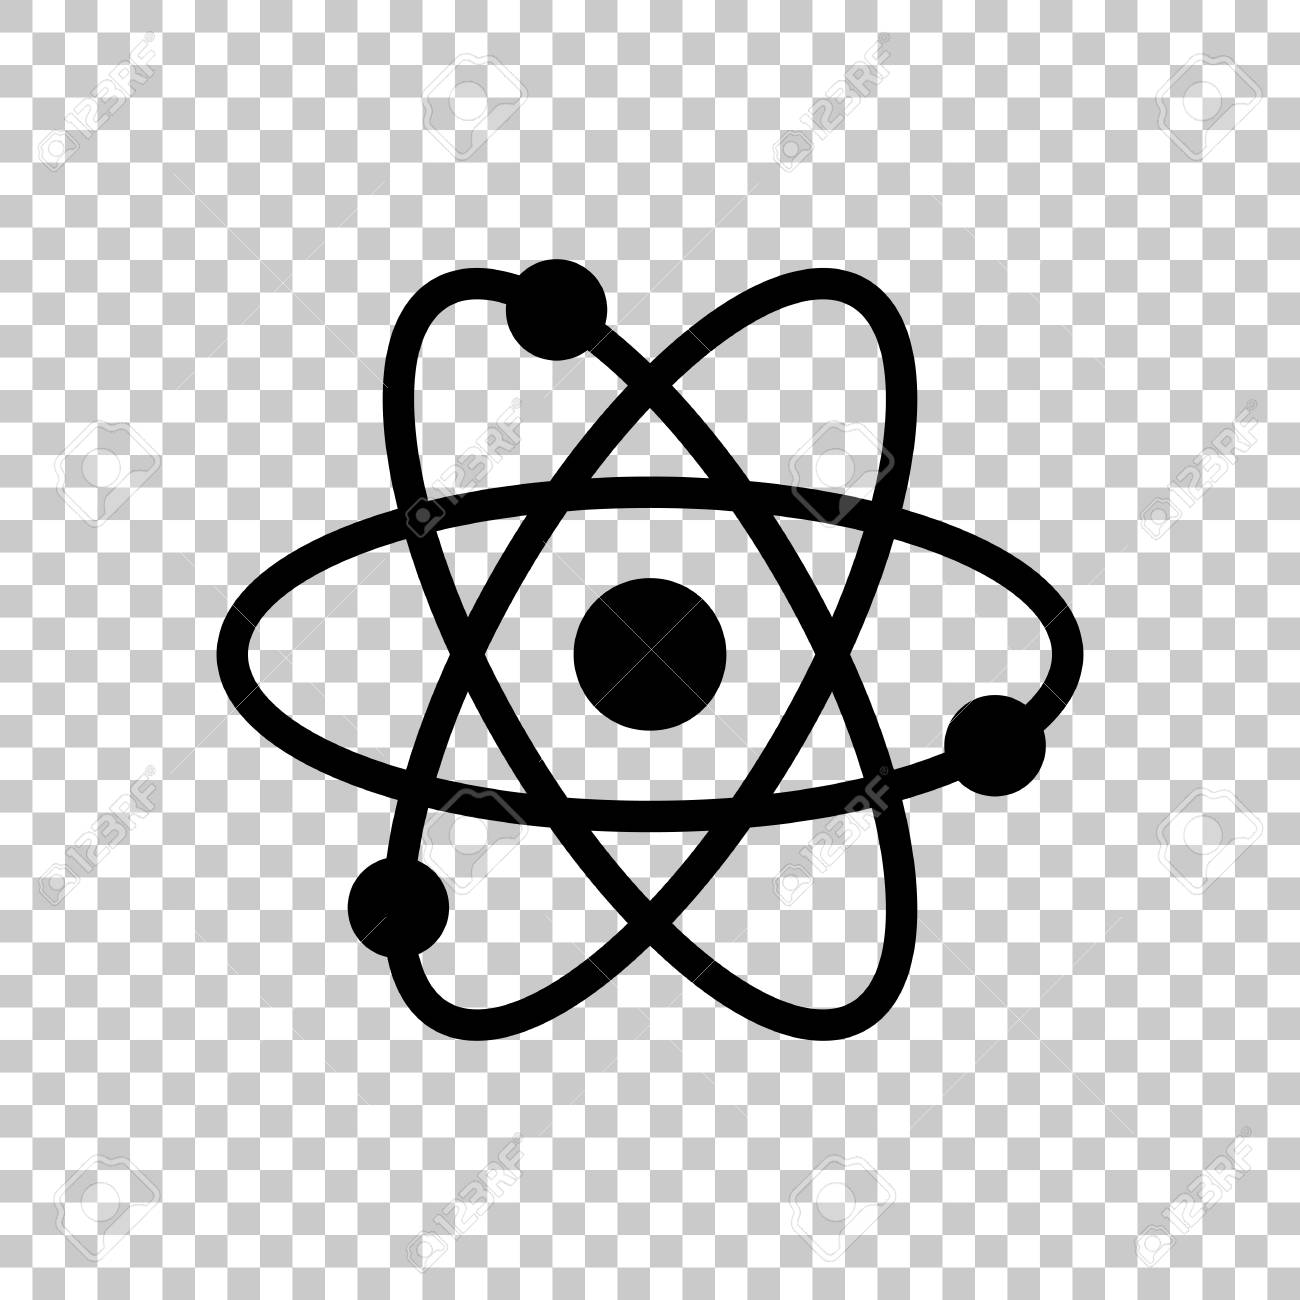
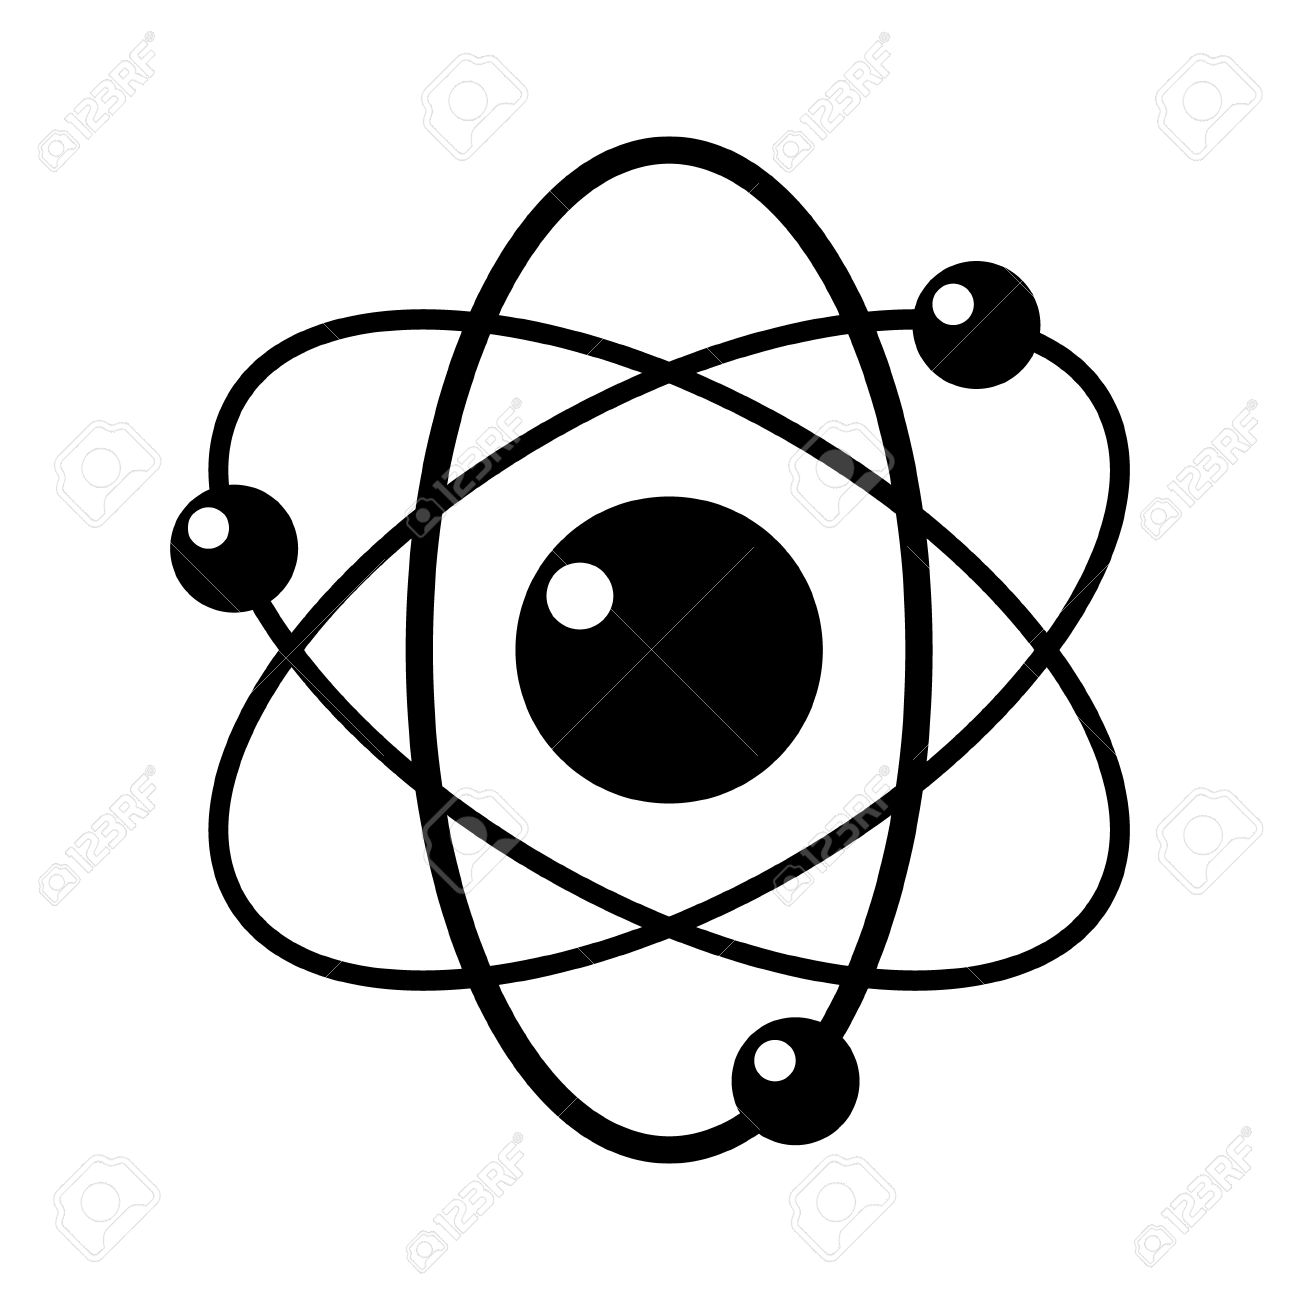
إصلاح شريط البحث في صفحات المصطلحات والمقالات + استبدال صورتين بخلفية بيضاء
1. إصلاح شريط البحث:
   - إضافة قواعد CSS عامة لجميع input-group في الموقع
   - الآن جميع أشرطة البحث في كل الصفحات لها نفس التصميم الصحيح
   - الزوايا المنحنية على الأطراف الخارجية

2. استبدال الصور ذات الخلفية الشفافة:
   - استبدال term-atom-icon.jpg بصورة ذات خلفية بيضاء
   - استبدال article-renewable-energy-icon.jpg بصورة ذات خلفية بيضاء
   - الاحتفاظ بالصور القديمة كنسخ احتياطية

diff --git a/styles.css b/styles.css
@@ -151,6 +151,18 @@ html {
     padding: 0 25px;
 }
 
+/* General input-group styling for all pages */
+.input-group .form-control {
+    border-radius: 0 30px 30px 0 !important;
+    border: 2px solid var(--primary-color);
+    padding: 12px 20px;
+}
+
+.input-group .btn {
+    border-radius: 30px 0 0 30px !important;
+    padding: 0 25px;
+}
+
 .search-container input:focus {
     box-shadow: 0 0 0 3px rgba(13, 71, 161, 0.2);
 }
